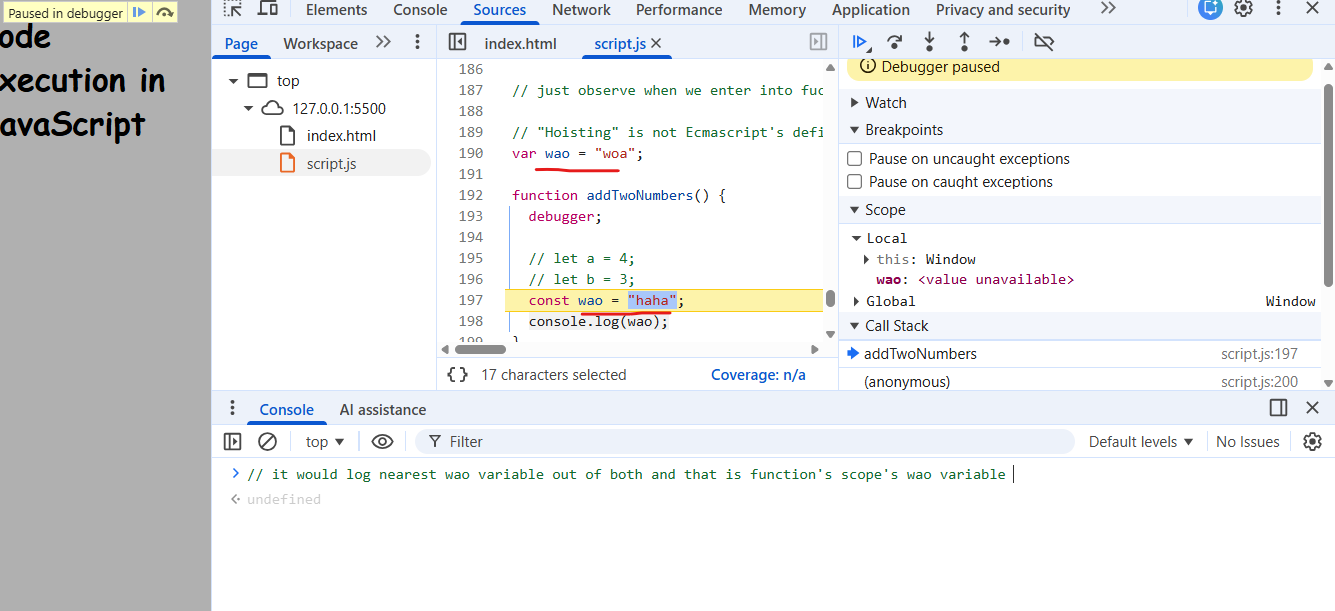
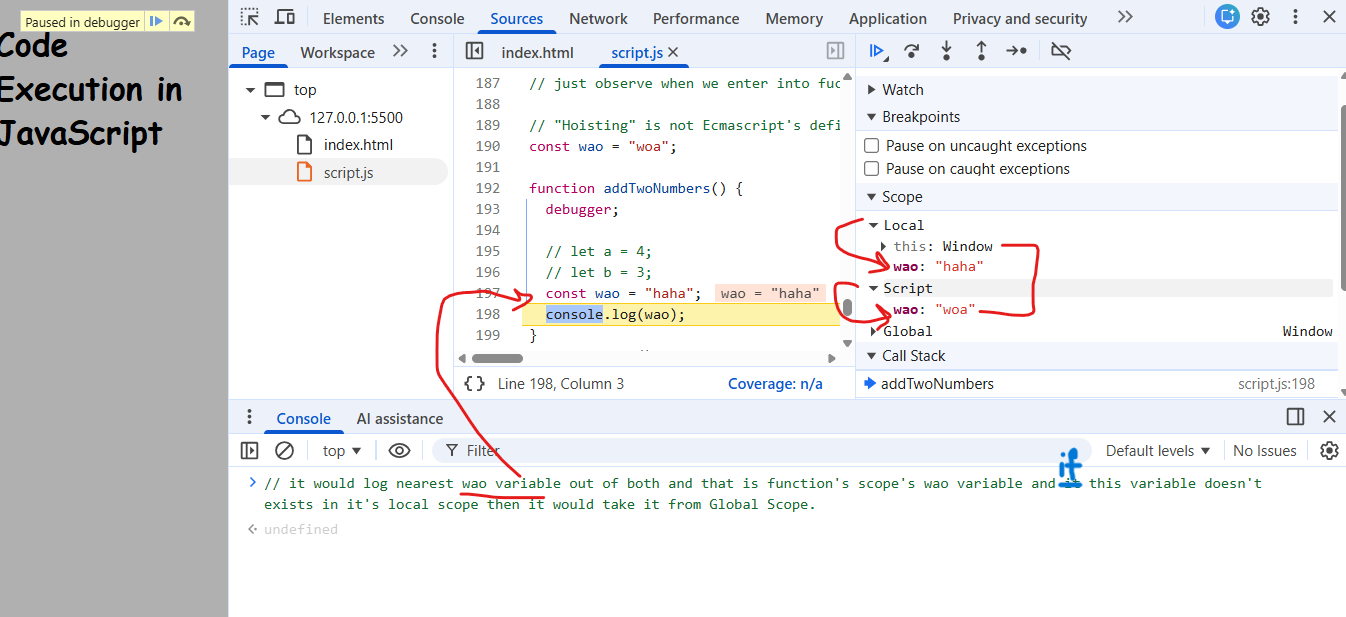
added more

Changed region(s): [[0.0, 0.0, 1.0, 1.0], [0.8906, 0.0, 1.0, 0.0622], [0.9521, 0.4664, 0.9828, 0.4975]]

diff --git a/dem-practise/script.js b/dem-practise/script.js
@@ -1,209 +1,25 @@
-// let firstName = "Akash";
-// let firstName2 = "Aka" + "sh"; // remember! two same strings can also have two diff addresses in memory but values are same like this in previous video.
-
-// Important!
-//  but in primitive data types js compare them on basis of value like values are same in both eventhough addresses in memory would be different.
-
-// let userAge = 23;
-// let userAge2 = 23;
-// let isGraduate = false;
-// let hasJob = true;
-// let myNull = null;
-// let myUndefined = undefined;
-// let myEmptyString = "";
-
-// so all these values which are not changing throughout the web, they have specific memory address throughout all websites like we checked for false value on MDN
-// like false is in @75 memory address throghout all the webs
-
-// let a = 123456789123456789123456789;
-// let b = 123456789123456789123456789n;
-// console.log(typeof b);
-// console.log(BigInt(a) * b);
-
-// if (true) {
-//   const a = "hello";
+// function a(b) {
+//   console.dir(b);
+//   b();
 // }
 
-// let a = helloFunc();
-// let b = helloArrowFunc();
-// console.log(a);
-// console.log(b);
-// console.log(hiBro);
-// var hiBro = "wao";
+// a(function () {
+//   console.log("hiiiiiiiiiiiii");
+// });
 
-// const userInfo = {
-//   firstName: "Harlongbi",
-//   lastName: "Phangcho",
-//   age: 27,
-// };
-// const userInfo2 = {
-//   firstName: "Harlongbi",
-//   lastName: "Phangcho",
-//   age: 27,
-// };
-
-// these both are same object with same values but would be created twice at two different addresses in memory
-// let userName1 = ""; // string is a primitive data type and when created two times but with same value same as userName1, then empty string ("") not just in our browser but in any browser of  world epmty strings has specific memory address same across all web or browsers, see next pic
-// let userName2 = "";
-
-// const profile = {
-//   userName: "madni",
-//   details: {
-//     city: "Bangalore",
-//     state: "Karnataka",
-//     pin: 785612,
-//     moreDetails: {
-//       population: 75656567,
-//       area: "789 sq. km",
-//     },
-//   },
-// };
-// Object.freeze(profile);
-// profile.userName = "Muhammad";
-// console.log(profile);
-// profile.details.city = "Lahore";
-
-// const count = [0, 1, 2, 3, 4, 10, 7, 3, 12, 25];
-
-// const animals = ["Dog", "cat", "Lion", "Donkey"];
-// animals.shift();
-// now we found that it converts all strings to it's utf-16 code then compare and sort them so the utf-16 code of "cat" may be heigher than other all that is why it may be lying at the end.
-
-// const fruits = ["Apple", "Banana"];
-// const array2 = fruits.slice();
-
-// array2.push("Orange");
-
-// const user1 = {
-//   name: "Madni",
-//   age: 25,
-//   pata: { city: "Lahore", contact: "434235" },
-// };
-// const user2 = { ...user1 };
-
-// user2.pata.city = "Karachi";
-
-// let num = 54356;
-
-// num = num + 5;
-// num = num + 5;
-// num = num + 5;
-// num = num + 5;
-
-// shortcut
-// console.log(num++);
-// num /= 3;
-// num -= 5;
-// num -= 5;
-
-// console.log("Programm started");
-// let friends = ["Abdulla", "Asad", "Ammar", "Muhammad", "Usama"];
-// let j = 10;
-// do {
-//   console.log(friends[j]);
-//   j++;
-// } while (j < friends.length);
-
-// console.log("Programm ended");
-
-// for (let key in friends) {
-//   if (key === "lastName") continue;
-//   console.log(friends[key]);
-// }
-
-// for (let i = 0; i < 25; i += 2) {
-//   if (i % 13 === 0) {
-//     break;
+// // and the function we pass as argument is called "Callback Function" bcz it is not called here but will be called later like there this is why it is call Callback Function. This will be immensely used in Array Advanced Methods like map, filter & reduce
+// debugger;
+// {
+//   const wao = "wao";
+//   var wao2 = "wao2";
+//   function sayHello() {
+//     console.log("Hello");
 //   }
-//   console.log(i);
 // }
 
-// for (let i = 2; i <= 13; i++) {
-//   if (i % 2 === 0) continue;
-//   console.log(i);
-// }
-
-// const fruits = ["Mango", "Pineapple", "Oranges"];
-// for (const fruit of fruits) {
-//   console.log(fruit);
-// }
-
-// function addTwoNum(a, b) {
-//   debugger;
-//   return a + b;
-//   return a;
-// }
-// const result = addTwoNum(addTwoNum(20, 3), addTwoNum(2.5, 2.5));
-
-// we know there are two phases done one by one whenever a code is run
-// 1. Memory Creation (when all variables created in memory first)
-// 2. Code Exection (when all variables get actual values)
-
-// so this is also "Execution Context" or rather "Global Execution Context" in js
-
-// we say it Global Execution Context bcz there is another context, whenever functions are created they have thier own "Exection Context" in which the variables of a function are created.
-// const userName = "Anurag"; // remember all variables declared with const or let key word stays in script under sources tab, but if var then no script but in global.
-// const userAge = 26;
-//  what if we had a fuction, would it be hoisted at top of scope? lets see
-
-// aeoHello();
-
-// function aeoHello() {
-//   const a = 4;
-//   var b = 8;
-//   addTwoNumbers(a, b);
-// }
-// // and what function like this and we even call it inside another func?
-// function addTwoNumbers(a, b) {
-//   kuchBi();
-//   return a + b;
-// }
-function kuchBi() {
-  console.log("kuch bi");
-}
-
-// let i = 1;
-// let limit = 50000; // no.of context execution in call stack depends upon this let's increase it to 100 then more than 100 this (introduceMe) function's context would be created and added to call stack
-// function introduceMe() {
-//   if (i <= limit) {
-//     console.log(i);
-//     i++;
-//     introduceMe();
-//   }
-//   return;
-// }
-// introduceMe();
-
-// and this is called  Stack Overflow where our call stack glass has filled fully and overflows now
-
-// Congratulations! you have even used recursion. Yes when a function calls itself recursion is created like call stack is adding new contexts constantly. it is called recursion in js
-
-// That's all about Call Stack
-
-// now you can understand current order of Call Stack as well
-
-// now take a look carefully, "return" keyword says that go back take Line of Control to where this function was called and place it's returned value there
-
-// just observe when we enter into fuction by moving our line controll step by step with the help of debugger, and meanwhile code exectuion phase or while Js creating "Global Exection Context" it would enter into function and fuction would at that moment would create it's "Local Exection Context" see next pic
-
-// "Hoisting" is not Ecmascript's defined a topic or concept in js but it's man made topic but even then it's most fluently asked interview questions
-const wao = "woa";
-
-function addTwoNumbers() {
-  debugger;
-
-  // let a = 4;
-  // let b = 3;
-  var wao = "haha";
-  console.log(wao);
-}
-addTwoNumbers();
-
-// Conclusion
-
-// 1.
-// all var variables and function definitions via func declaration creates in window obj and we can access them using "Window.varName"
-// and let and const variables are created in Script Scope, and this "Window.varName" can't be used for Script scope
-
-// 2.
-// when a fucntion is called, it's Local Scope is created where all it's local variables stays and not accessible outside of that function
+let counter = 0;
+debugger;
+const func = function () {
+  console.log(`the function called is ${func}`);
+};
+func();
